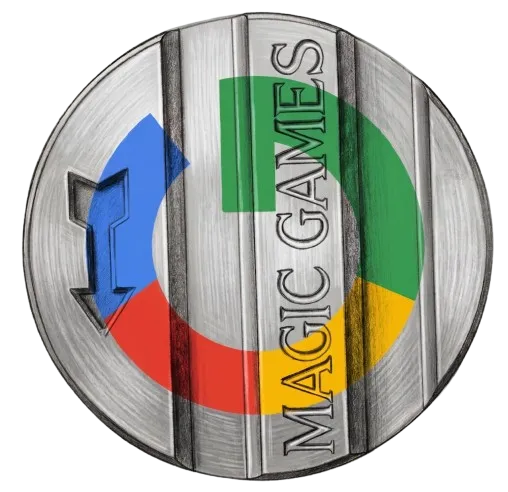
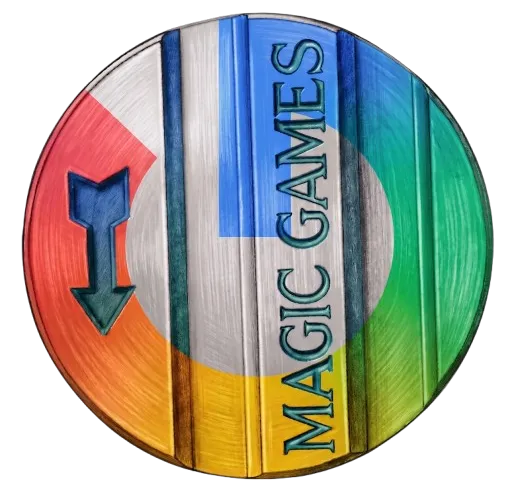
style(desktop): restaurar alinhamento do footer e expandir pódio
- Reconfigurada a diretiva @font-face do display de LED e cravada a
  altura util de linha em 38px para manter o respiro de 2px nas bordas.
- Removido o involucro max-w da div interna do rodapé, permitindo a
  sangria dos icones do podio e redes sociais ate as quinas da viewport.
- Elevada a escala do Modal de Ranking no desktop, inflando os avatares
  em 50% (72px) e os glifos textuais em 30% para maior imponencia.
- Alterada a imagem da moeda de login do Google para uma nova versão,
  arquivo google_coin.webp, com nova logo do Google.

diff --git a/index.html b/index.html
@@ -17,16 +17,14 @@
      v2.0 (28/05/2026) — Reorganização em blocos e documentação
 ============================================================ -->
 <html lang="pt-br">
-
-
-    <!-- ============================================================
+  <!-- ============================================================
          1. HEAD — META, SEO, OPEN GRAPH E SDKS EXTERNOS
          Contém: charset/viewport, título, Open Graph (Facebook/WhatsApp),
          Twitter Card, favicon, Supabase SDK, Tailwind CSS,
          Google Fonts, styles.css, preconnect de avatares e EmailJS.
          ============================================================ -->
 
-    <!-- 1.1 — Charset, viewport e título da página -->
+  <!-- 1.1 — Charset, viewport e título da página -->
   <head>
     <meta charset="UTF-8" />
     <meta name="viewport" content="width=device-width, initial-scale=1.0" />
@@ -80,8 +78,6 @@
   </head>
 
   <body class="antialiased app-unlogged">
-
-
     <!-- ============================================================
          2. NAVBAR
          Barra fixa no topo (z-index 160). Contém em ordem:
@@ -92,7 +88,8 @@
 
     <nav
       class="fixed top-0 w-full bg-slate-900/95 backdrop-blur-md border-b border-slate-800 z-[160] px-3 md:px-6 py-2.5 md:py-3 flex flex-wrap items-center gap-y-3 gap-x-2 md:gap-x-6 transition-all"
-    >    <!-- 2.1 — Logo — botão easter egg (R rosa) + título "RetroBrinquedos" com gradiente pink→cyan. Cliques no logo disparam o easter egg do LED. -->
+    >
+      <!-- 2.1 — Logo — botão easter egg (R rosa) + título "RetroBrinquedos" com gradiente pink→cyan. Cliques no logo disparam o easter egg do LED. -->
       <!-- 1. LOGO E TÍTULO -->
       <div class="flex items-center gap-2 md:gap-3 shrink-0 order-1">
         <div
@@ -108,7 +105,7 @@
           RetroBrinquedos
         </h1>
       </div>
-    <!-- 2.2 — #userArea — botão ENTRAR (estado deslogado) substituído por avatar + dropdown pelo JS após login bem-sucedido -->
+      <!-- 2.2 — #userArea — botão ENTRAR (estado deslogado) substituído por avatar + dropdown pelo JS após login bem-sucedido -->
       <!-- 2. ÁREA DO USUÁRIO / ENTRAR -->
       <div
         id="userArea"
@@ -121,10 +118,10 @@
           ENTRAR
         </button>
       </div>
-    <!-- 2.3 — Quebra de linha forçada no mobile — div invisible order-3 que força o campo de busca para a segunda linha em telas pequenas -->
+      <!-- 2.3 — Quebra de linha forçada no mobile — div invisible order-3 que força o campo de busca para a segunda linha em telas pequenas -->
       <!-- QUEBRA DE LINHA FORÇADA NO MOBILE -->
       <div class="w-full h-0 md:hidden order-3"></div>
-    <!-- 2.4 — Toggle LED + campo de busca — switch on/off do painel LED, input de busca com debounce, botão ✕ para limpar e botão lupa para busca forçada -->
+      <!-- 2.4 — Toggle LED + campo de busca — switch on/off do painel LED, input de busca com debounce, botão ✕ para limpar e botão lupa para busca forçada -->
       <!-- 3. TOGGLE + BUSCA -->
       <div
         class="flex items-center gap-3 md:gap-5 flex-grow md:flex-1 order-4 md:order-2 shrink-0 md:shrink"
@@ -197,7 +194,7 @@
           </button>
         </div>
       </div>
-    <!-- 2.5 — #userFilters — barra de filtros Meu Quarto (TODOS / FUI DONO / QUERIA TER / FAVORITOS). Oculta até o login; exibida pelo JS via updateNavWithAvatar() -->
+      <!-- 2.5 — #userFilters — barra de filtros Meu Quarto (TODOS / FUI DONO / QUERIA TER / FAVORITOS). Oculta até o login; exibida pelo JS via updateNavWithAvatar() -->
       <div
         id="userFilters"
         class="hidden w-full flex gap-3 overflow-x-auto no-scrollbar py-2 px-3 md:px-6 border-t border-white/5 bg-black/20 order-5"
@@ -233,7 +230,6 @@
       </div>
     </nav>
 
-
     <!-- ============================================================
          3. PAINEL LED — TICKER ANIMADO
          Faixa fixa posicionada pelo JS abaixo da navbar (ajustarPainelLED).
@@ -251,7 +247,6 @@
         <div id="ledContent" class="led-content"></div>
       </div>
     </div>
-
 
     <!-- ============================================================
          4. HERO SECTION
@@ -451,7 +446,6 @@
       </div>
     </section>
 
-
     <!-- ============================================================
          5. CATÁLOGO — HEADER E GRID MASONRY
          Header com título da seção e grid flex onde os cards
@@ -474,7 +468,6 @@
       <div id="toyGrid" class="masonry-grid"></div>
     </main>
 
-
     <!-- ============================================================
          6. FOOTER FIXO
          Barra fixa no rodapé (z-index 90). Contém à esquerda:
@@ -489,14 +482,12 @@
     <!-- 6.4 — Links de redes sociais — Instagram, Facebook e e-mail (ícones SVG inline) -->
     <!-- Footer fixo: Texto centralizado absoluto e ícones na margem direita -->
     <footer
-      class="fixed bottom-0 w-full z-[90] bg-slate-900/95 backdrop-blur-md border-t border-slate-800 py-3 md:py-1.5"
+      class="fixed bottom-0 w-full z-[90] bg-slate-900/95 backdrop-blur-md border-t border-slate-800 py-3 md:py-2"
     >
       <div
-        class="relative flex flex-row items-center justify-center w-full px-4 md:px-8 max-w-screen-2xl mx-auto h-full min-h-[24px]"
+        class="relative flex flex-row items-center justify-between w-full px-4 md:px-8"
       >
-        <div
-          class="absolute left-4 md:left-8 flex items-center gap-3.5 md:gap-4 footer-podium-wrapper"
-        >
+        <div class="flex items-center gap-4 footer-podium-wrapper">
           <button
             onclick="abrirRankingModal()"
             class="footer-podium-btn"
@@ -511,18 +502,17 @@
               height="28"
             />
           </button>
-
           <img
             id="enduroFlags"
             src="/img/flags.jpg"
             alt="Enduro Stage"
-            class="hidden opacity-0 h-[18px] md:h-[15px] w-auto transition-opacity duration-200 select-none pointer-events-none"
+            class="hidden opacity-0 h-[18px] md:h-[16px] w-auto transition-opacity duration-200 select-none pointer-events-none"
             title="Fase Concluída!"
           />
         </div>
 
         <p
-          class="text-[14.5px] md:text-[11px] text-slate-400 text-center truncate px-16 md:px-24"
+          class="text-sm md:text-xs text-slate-400 text-center truncate flex-1 px-4"
         >
           <button
             onclick="abrirDisclaimerModal()"
@@ -531,14 +521,12 @@
           >
             © 2026 RetroBrinquedos BR
           </button>
-          <span class="hidden sm:inline"
-            >- Revivendo memórias em alta resolução.</span
+          <span class="hidden sm:inline">
+            - Revivendo memórias em alta resolução.</span
           >
         </p>
 
-        <div
-          class="absolute right-4 md:right-8 flex items-center gap-4 md:gap-5 shrink-0"
-        >
+        <div class="flex items-center gap-4 md:gap-5 shrink-0">
           <a
             href="#"
             title="Instagram"
@@ -546,7 +534,7 @@
           >
             <svg
               xmlns="http://www.w3.org/2000/svg"
-              class="w-6 h-6 md:w-[18px] md:h-[18px]"
+              class="w-6 h-6 md:w-5 md:h-5"
               fill="currentColor"
               viewBox="0 0 24 24"
             >
@@ -562,7 +550,7 @@
           >
             <svg
               xmlns="http://www.w3.org/2000/svg"
-              class="w-6 h-6 md:w-[18px] md:h-[18px]"
+              class="w-6 h-6 md:w-5 md:h-5"
               fill="currentColor"
               viewBox="0 0 24 24"
             >
@@ -578,7 +566,7 @@
           >
             <svg
               xmlns="http://www.w3.org/2000/svg"
-              class="w-6 h-6 md:w-[18px] md:h-[18px]"
+              class="w-6 h-6 md:w-5 md:h-5"
               fill="currentColor"
               viewBox="0 0 24 24"
             >
@@ -590,7 +578,6 @@
         </div>
       </div>
     </footer>
-
 
     <!-- ============================================================
          7. MODAL RANKING E PÓDIO
@@ -670,7 +657,6 @@
         </div>
       </div>
     </div>
-
 
     <!-- ============================================================
          8. ARCADE MODAL — LOGIN E SELEÇÃO DE AVATAR
@@ -835,7 +821,6 @@
       </div>
     </div>
 
-
     <!-- ============================================================
          9. DRAWER DE COMENTÁRIOS
          Painel deslizante lateral (z-index 300). Mobile: sobe de baixo.
@@ -910,7 +895,6 @@
       </div>
     </div>
 
-
     <!-- ============================================================
          10. MODAL CARD COMPARTILHADO — ?card=XXXX
          Overlay z-index 400. Exibido automaticamente pelo JS quando a
@@ -945,7 +929,6 @@
       </div>
     </div>
 
-
     <!-- ============================================================
          11. ENTRY POINT — CARREGAMENTO DO app.js
          Script principal da SPA. Carregado após todos os modais
@@ -954,7 +937,6 @@
          ============================================================ -->
 
     <script src="app.js"></script>
-
 
     <!-- ============================================================
          12. MODAL SUGESTÃO DE BRINQUEDO
@@ -1110,7 +1092,6 @@
     </div>
     <!-- /Item 11 -->
 
-
     <!-- ============================================================
          13. MODAL DISCLAIMER — DIREITOS AUTORAIS E CONTATO
          Overlay z-index 500. Exibe a política de uso, aviso de
@@ -1191,7 +1172,6 @@
         </div>
       </div>
     </div>
-
 
     <!-- ============================================================
          14. MODAIS DE FABRICANTES (1–8)
@@ -1802,7 +1782,6 @@
       </div>
     </div>
     <!-- /H4 H5 -->
-
 
     <!-- ============================================================
          15. MODAL VERSO MOBILE — CARD SUPER TRUNFO CENTRALIZADO

diff --git a/styles.css b/styles.css
@@ -3353,21 +3353,25 @@ body {
 /* ✏ PONTO DE TROCA DE FONTE DO LED — edite apenas aqui */
 @font-face {
   font-family: "LEDDisplay";
-  /* 📁 Arquivo em /fonts/advanced_led_board-7.ttf na raiz do projeto */
-  src: url("/fonts/advanced_led_board-7.ttf") format("truetype");
+  src:
+    url("./fonts/advanced_led_board-7.ttf") format("truetype"),
+    url("/fonts/advanced_led_board-7.ttf") format("truetype");
   font-display: swap;
 }
 
-/* Desktop: fonte LED máxima respeitando 2px acima e abaixo do painel (42px).
-   Espaço útil = 38px. Cap-height ~75% → font-size 34px ≈ 25px de glifo visível */
+/* Calibragem estrita para o Desktop (38px de área útil centralizada) */
 .led-content {
   font-family: "LEDDisplay", "Courier New", monospace;
-  font-size: 34px;
-  font-weight: 400;
-  letter-spacing: 0.12em;
-  line-height: 42px; /* igual à altura do painel no desktop */
+  font-size: 34px !important;
+  font-weight: 400 !important;
+  letter-spacing: 0.12em !important;
+  line-height: 38px !important; /* Resguarda 2px acima e 2px abaixo dentro do painel de 42px */
+  color: #39ff14;
+  text-shadow: 0 0 6px rgba(57, 255, 20, 0.65) !important;
+  display: inline-block;
+  white-space: nowrap;
+  will-change: transform;
 }
-
 /* Mobile: painel 36px → espaço útil 32px → font-size 28px */
 @media (max-width: 767px) {
   :root {
@@ -3693,8 +3697,8 @@ body {
 .ranking-modal-item {
   display: flex;
   align-items: center;
-  gap: 10px;
-  padding: 6px 4px;
+  gap: 14px !important; /* Mais espaçamento */
+  padding: 10px 6px !important; /* Caixa mais robusta */
   border-bottom: 1px solid rgba(57, 255, 20, 0.08);
 }
 .ranking-modal-item:last-child {
@@ -3703,21 +3707,21 @@ body {
 
 .ranking-modal-pos {
   font-family: "Orbitron", monospace;
-  font-size: 0.6rem;
+  font-size: 0.85rem !important; /* +30% de escala */
   color: var(--trunfo-gold);
   font-weight: 700;
-  min-width: 18px;
+  min-width: 24px;
   text-align: center;
   flex-shrink: 0;
 }
 
 .ranking-modal-img {
-  width: 48px;
-  height: 48px;
+  width: 72px !important; /* Inflado em 50% de tamanho */
+  height: 72px !important; /* Inflado em 50% de tamanho */
   object-fit: cover;
-  border-radius: 6px;
+  border-radius: 8px !important;
   flex-shrink: 0;
-  border: 1px solid rgba(57, 255, 20, 0.2);
+  border: 1.5px solid rgba(57, 255, 20, 0.25) !important;
 }
 
 .ranking-modal-info {
@@ -3729,24 +3733,24 @@ body {
 }
 .ranking-modal-nome {
   font-family: "Orbitron", monospace;
-  font-size: 0.6rem;
-  color: rgba(255, 255, 255, 0.9);
+  font-size: 0.82rem !important; /* +30% de escala */
+  color: rgba(255, 255, 255, 0.95);
   letter-spacing: 0.05em;
   line-height: 1.4;
   word-break: break-word;
 }
 .ranking-modal-fabricante {
   font-family: "Orbitron", monospace;
-  font-size: 0.5rem;
+  font-size: 0.65rem !important; /* +30% de escala */
   color: rgba(255, 255, 255, 0.4);
   letter-spacing: 0.08em;
 }
 
 .ranking-modal-valor {
   font-family: "Orbitron", monospace;
-  font-size: 0.6rem;
+  font-size: 0.82rem !important; /* +30% de escala */
   font-weight: 700;
-  min-width: 44px;
+  min-width: 60px;
   text-align: right;
   flex-shrink: 0;
   white-space: nowrap;
